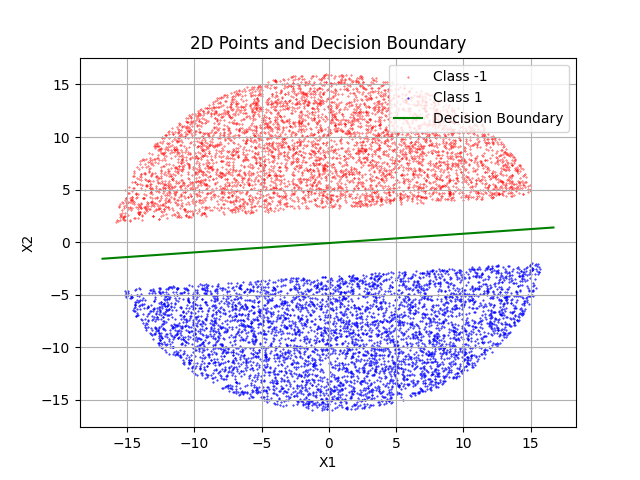
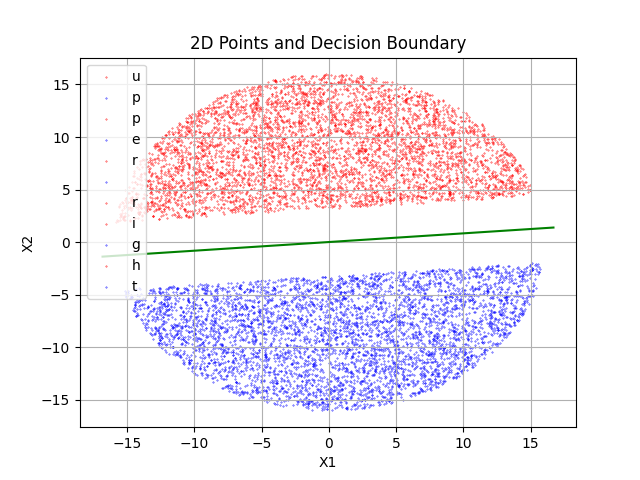
Final version

diff --git a/margin_perceptron.py b/margin_perceptron.py
@@ -1,7 +1,6 @@
 import math
 import os
 import logging
-import matplotlib.pyplot as plt
 from utils.logger import setup_logging
 from utils.argparser import argparser
 from utils.dataset_loader import read_file, parse_dataset
@@ -115,4 +114,4 @@ if __name__ == '__main__':
     b = perceptron.return_b()
     logging.info(f"w: {w}, b: {b:.4f}\n")
 
-    # plot_2d_points_and_decision_boundary(x, y, w, b)
+    plot_2d_points_and_decision_boundary(X, y, w, b)

diff --git a/utils/visualize_2d.py b/utils/visualize_2d.py
@@ -21,7 +21,7 @@ def plot_2d_points_and_decision_boundary(X: list[list[float]], y: list[int], w: 
     plt.xlabel('X1')
     plt.ylabel('X2')
     plt.title('2D Points and Decision Boundary')
-    plt.legend()
+    plt.legend("upper right")
     plt.grid(True)
     # Save the image to the specified path
     plt.savefig('2d_points_and_decision_boundary.png')
